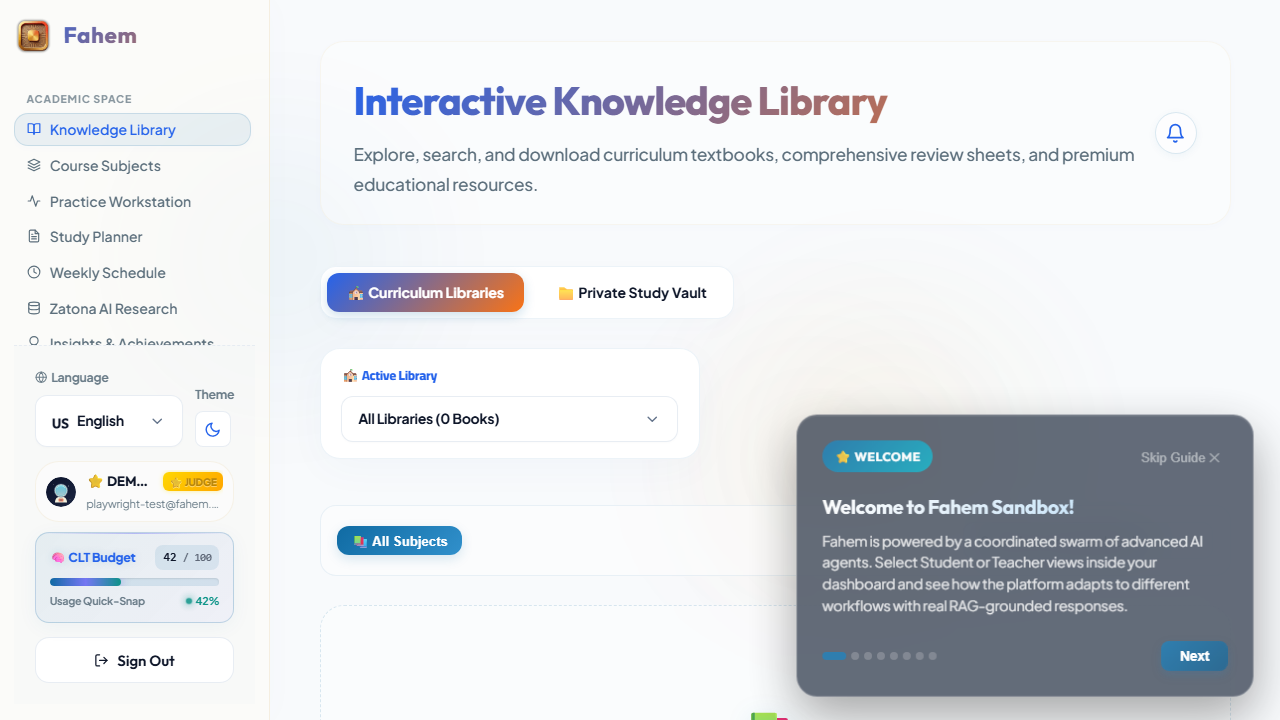
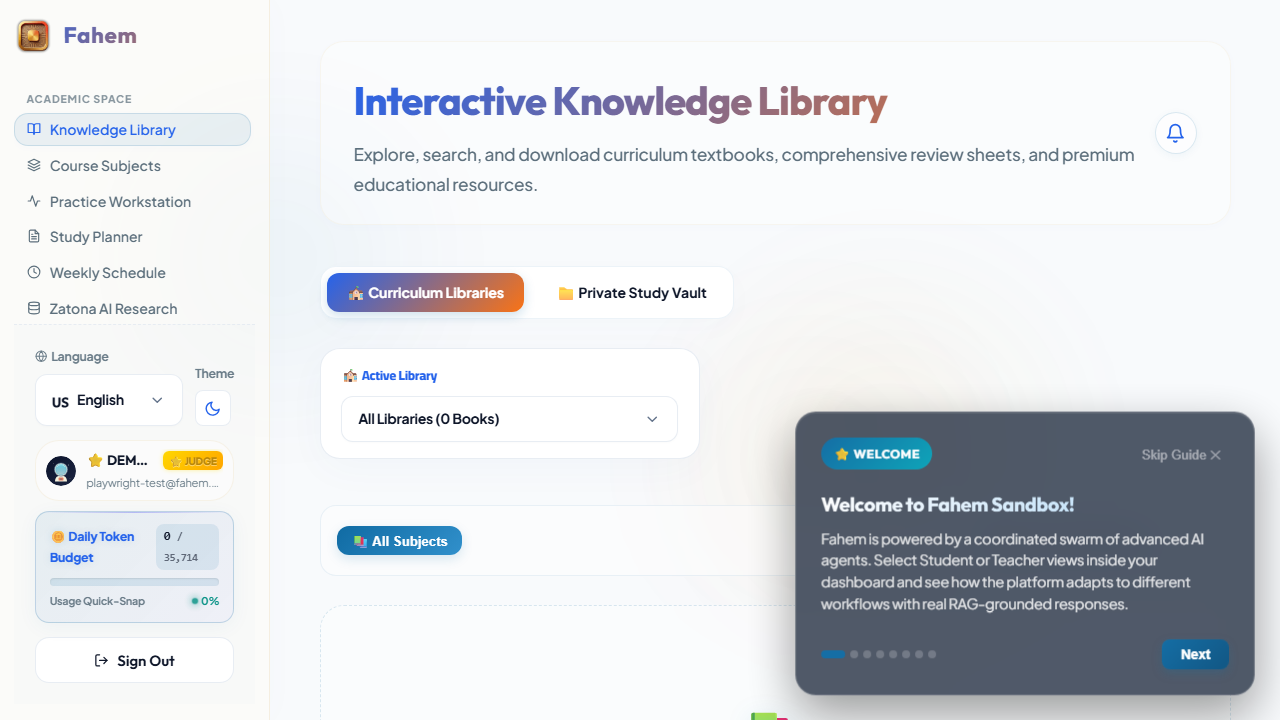
feat(sandbox): instrument sandbox onboarding testing and improve book citation link parsing

diff --git a/web/src/app/[locale]/home/page.tsx b/web/src/app/[locale]/home/page.tsx
@@ -1463,8 +1463,8 @@ export default function Home() {
   };
 
   const parseInlineMarkdown = (text: string) => {
-    // Support bolding (**text**), code (`text`), and book page citations [book_id:pN] or [pN]
-    const parts = text.split(/(\*\*.*?\*\*|`.*?`|\[[^\]:]+\s*:\s*[pP]\d+\]|\[[pP]\d+\])/gi);
+    // Support bolding (**text**), code (`text`), standard markdown links ([text](url)), and book page citations [book_id:pN] or [pN]
+    const parts = text.split(/(\*\*.*?\*\*|`.*?`|\[[^\]]+\]\([^)]+\)|\[[^\]:]+\s*:\s*[pP]\d+\]|\[[pP]\d+\])/gi);
     return parts.map((part, pIdx) => {
       if (!part) return null;
       if (part.startsWith("**") && part.endsWith("**")) {
@@ -1472,6 +1472,82 @@ export default function Home() {
       }
       if (part.startsWith("`") && part.endsWith("`")) {
         return <code key={pIdx} style={{ background: "rgba(16, 107, 163, 0.08)", padding: "1px 4px", borderRadius: "4px", fontSize: "0.9em", color: "var(--primary)", fontFamily: "monospace" }}>{part.slice(1, -1)}</code>;
+      }
+      if (part.startsWith("[") && part.includes("](")) {
+        const closeBracketIdx = part.indexOf("](");
+        const linkText = part.slice(1, closeBracketIdx);
+        const linkUrl = part.slice(closeBracketIdx + 2, -1);
+        
+        if (linkUrl.includes("bookId=") || linkUrl.includes("page=")) {
+          let bookId = "";
+          let pageNum = 1;
+          try {
+            const urlObj = new URL(linkUrl.startsWith("?") ? `http://dummy.com${linkUrl}` : linkUrl);
+            bookId = urlObj.searchParams.get("bookId") || "";
+            const pageParam = urlObj.searchParams.get("page");
+            if (pageParam) {
+              pageNum = parseInt(pageParam, 10) || 1;
+            }
+          } catch (e) {
+            const bookMatch = linkUrl.match(/bookId=([^&]+)/);
+            const pageMatch = linkUrl.match(/page=(\d+)/);
+            if (bookMatch) bookId = decodeURIComponent(bookMatch[1]);
+            if (pageMatch) pageNum = parseInt(pageMatch[1], 10) || 1;
+          }
+          
+          bookId = bookId.replace(/[^a-zA-Z0-9_\u0600-\u06FF\s-]/g, "").trim();
+          
+          let cleanLinkText = linkText;
+          const textMatch = linkText.match(/(?:^|\[)?([^\]:]+)\s*:\s*[pP](\d+)(?:\])?$/i);
+          if (textMatch) {
+            const matchedPage = textMatch[2];
+            cleanLinkText = `[p${matchedPage}]`;
+          } else if (/^[pP](\d+)$/i.test(linkText)) {
+            cleanLinkText = `[p${linkText.match(/[pP](\d+)/i)![1]}]`;
+          }
+          
+          return (
+            <a
+              key={pIdx}
+              href={linkUrl}
+              onClick={(e) => {
+                e.preventDefault();
+                const event = new CustomEvent("fahemNavigateBook", {
+                  detail: { bookId, page: pageNum }
+                });
+                window.dispatchEvent(event);
+              }}
+              style={{
+                color: "var(--secondary, #d4af37)",
+                textDecoration: "underline",
+                fontWeight: 800,
+                cursor: "pointer",
+                display: "inline-flex",
+                alignItems: "center",
+                gap: "2px",
+                background: "rgba(212, 175, 55, 0.08)",
+                padding: "2px 6px",
+                borderRadius: "6px",
+                border: "1px solid rgba(212, 175, 55, 0.15)",
+                transition: "all 0.2s"
+              }}
+              title={`Go to ${bookId} - Page ${pageNum}`}
+            >
+              📖 {cleanLinkText}
+            </a>
+          );
+        }
+        return (
+          <a
+            key={pIdx}
+            href={linkUrl}
+            target="_blank"
+            rel="noopener noreferrer"
+            style={{ color: "var(--primary)", textDecoration: "underline" }}
+          >
+            {linkText}
+          </a>
+        );
       }
       
       const customMatch = part.match(/^\[([^\]:]+)\s*:\s*([pP])(\d+)\]$/i);
@@ -4084,7 +4160,9 @@ export default function Home() {
             name: "⭐ DEMO (Sandbox)",
             username: "demo_evaluation",
             avatar: "/avatars/space_explorer.svg",
-            onboardingCompleted: true,
+            onboardingCompleted: (currentUser.email && currentUser.email.toLowerCase().includes("onboarding-test")) ? false : true,
+            phoneVerified: (currentUser.email && currentUser.email.toLowerCase().includes("onboarding-test")) ? true : undefined,
+            phone_verified: (currentUser.email && currentUser.email.toLowerCase().includes("onboarding-test")) ? true : undefined,
             userType: savedPersona === "teacher" ? "teacher" : "student",
             role: savedPersona === "admin" ? "admin" : savedPersona,
             isWhitelisted: true,
@@ -4101,6 +4179,9 @@ export default function Home() {
           setUserProfile(judgeProfile);
           setLoadingProfile(false);
           setIsAdmin(savedPersona === "admin"); // Allow judge Standard/Superadmin console access for auditing
+          if (judgeProfile.onboardingCompleted === false) {
+            setCurrentOnboardingStep("role");
+          }
         } else {
           authedFetch(`/api/user/profile?userId=${encodeURIComponent(currentUser.uid)}&email=${encodeURIComponent(currentUser.email || "")}&t=${Date.now()}`, { cache: "no-store" })
             .then((res) => {
@@ -4438,10 +4519,87 @@ export default function Home() {
                 </code>
               );
             }
-            // Parse book page citations within standard text parts
-            const citeParts = codePart.split(/(\[[^\]:]+\s*:\s*[pP]\d+\]|\[[pP]\d+\])/gi);
+            // Parse book page citations and standard markdown links within standard text parts
+            const citeParts = codePart.split(/(\[[^\]]+\]\([^)]+\)|\[[^\]:]+\s*:\s*[pP]\d+\]|\[[pP]\d+\])/gi);
             return citeParts.map((citePart, citeIndex) => {
               if (!citePart) return null;
+              if (citePart.startsWith("[") && citePart.includes("](")) {
+                const closeBracketIdx = citePart.indexOf("](");
+                const linkText = citePart.slice(1, closeBracketIdx);
+                const linkUrl = citePart.slice(closeBracketIdx + 2, -1);
+                
+                if (linkUrl.includes("bookId=") || linkUrl.includes("page=")) {
+                  let bookId = "";
+                  let pageNum = 1;
+                  try {
+                    const urlObj = new URL(linkUrl.startsWith("?") ? `http://dummy.com${linkUrl}` : linkUrl);
+                    bookId = urlObj.searchParams.get("bookId") || "";
+                    const pageParam = urlObj.searchParams.get("page");
+                    if (pageParam) {
+                      pageNum = parseInt(pageParam, 10) || 1;
+                    }
+                  } catch (e) {
+                    const bookMatch = linkUrl.match(/bookId=([^&]+)/);
+                    const pageMatch = linkUrl.match(/page=(\d+)/);
+                    if (bookMatch) bookId = decodeURIComponent(bookMatch[1]);
+                    if (pageMatch) pageNum = parseInt(pageMatch[1], 10) || 1;
+                  }
+                  
+                  bookId = bookId.replace(/[^a-zA-Z0-9_\u0600-\u06FF\s-]/g, "").trim();
+                  
+                  let cleanLinkText = linkText;
+                  const textMatch = linkText.match(/(?:^|\[)?([^\]:]+)\s*:\s*[pP](\d+)(?:\])?$/i);
+                  if (textMatch) {
+                    const matchedPage = textMatch[2];
+                    cleanLinkText = `[p${matchedPage}]`;
+                  } else if (/^[pP](\d+)$/i.test(linkText)) {
+                    cleanLinkText = `[p${linkText.match(/[pP](\d+)/i)![1]}]`;
+                  }
+                  
+                  return (
+                    <a
+                      key={`${codeIndex}-${citeIndex}`}
+                      href={linkUrl}
+                      onClick={(e) => {
+                        e.preventDefault();
+                        const event = new CustomEvent("fahemNavigateBook", {
+                          detail: { bookId, page: pageNum }
+                        });
+                        window.dispatchEvent(event);
+                      }}
+                      style={{
+                        color: "var(--secondary, #d4af37)",
+                        textDecoration: "underline",
+                        fontWeight: 800,
+                        cursor: "pointer",
+                        display: "inline-flex",
+                        alignItems: "center",
+                        gap: "2px",
+                        background: "rgba(212, 175, 55, 0.08)",
+                        padding: "2px 6px",
+                        borderRadius: "6px",
+                        border: "1px solid rgba(212, 175, 55, 0.15)",
+                        transition: "all 0.2s"
+                      }}
+                      title={`Go to ${bookId} - Page ${pageNum}`}
+                    >
+                      📖 {cleanLinkText}
+                    </a>
+                  );
+                }
+                return (
+                  <a
+                    key={`${codeIndex}-${citeIndex}`}
+                    href={linkUrl}
+                    target="_blank"
+                    rel="noopener noreferrer"
+                    style={{ color: "var(--primary)", textDecoration: "underline" }}
+                  >
+                    {linkText}
+                  </a>
+                );
+              }
+              
               const customMatch = citePart.match(/^\[([^\]:]+)\s*:\s*([pP])(\d+)\]$/i);
               if (customMatch) {
                 const bookId = customMatch[1].trim();

diff --git a/web/src/components/StickyChat.tsx b/web/src/components/StickyChat.tsx
@@ -2078,6 +2078,15 @@ export default function StickyChat() {
           
           bookId = bookId.replace(/[^a-zA-Z0-9_\u0600-\u06FF\s-]/g, "").trim();
           
+          let cleanLinkText = linkText;
+          const textMatch = linkText.match(/(?:^|\[)?([^\]:]+)\s*:\s*[pP](\d+)(?:\])?$/i);
+          if (textMatch) {
+            const matchedPage = textMatch[2];
+            cleanLinkText = `[p${matchedPage}]`;
+          } else if (/^[pP](\d+)$/i.test(linkText)) {
+            cleanLinkText = `[p${linkText.match(/[pP](\d+)/i)![1]}]`;
+          }
+          
           return (
             <a
               key={pIdx}
@@ -2105,7 +2114,7 @@ export default function StickyChat() {
               }}
               title={`Go to ${bookId} - Page ${pageNum}`}
             >
-              📖 {linkText}
+              📖 {cleanLinkText}
             </a>
           );
         }

diff --git a/web/src/app/api/version/git_sha.ts b/web/src/app/api/version/git_sha.ts
@@ -1,1 +1,1 @@
-export const GIT_SHA = "7e8b0beb49ba973f39dd7a5daf937e31040d7ec8";
+export const GIT_SHA = "37b7a9b6d86572e65f281a7b432946efab464495";